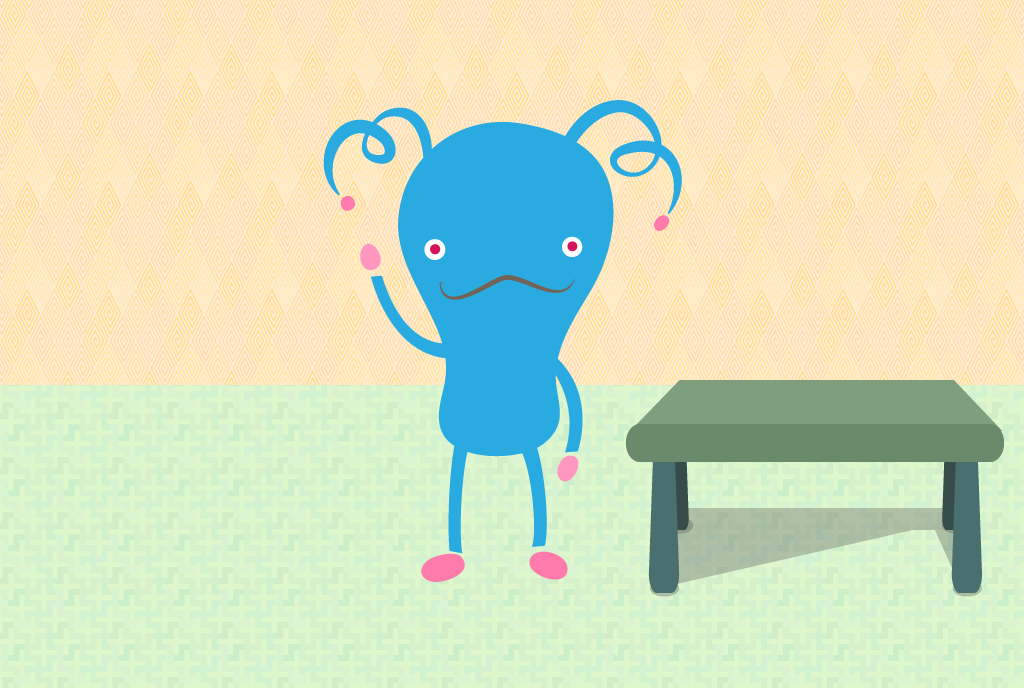
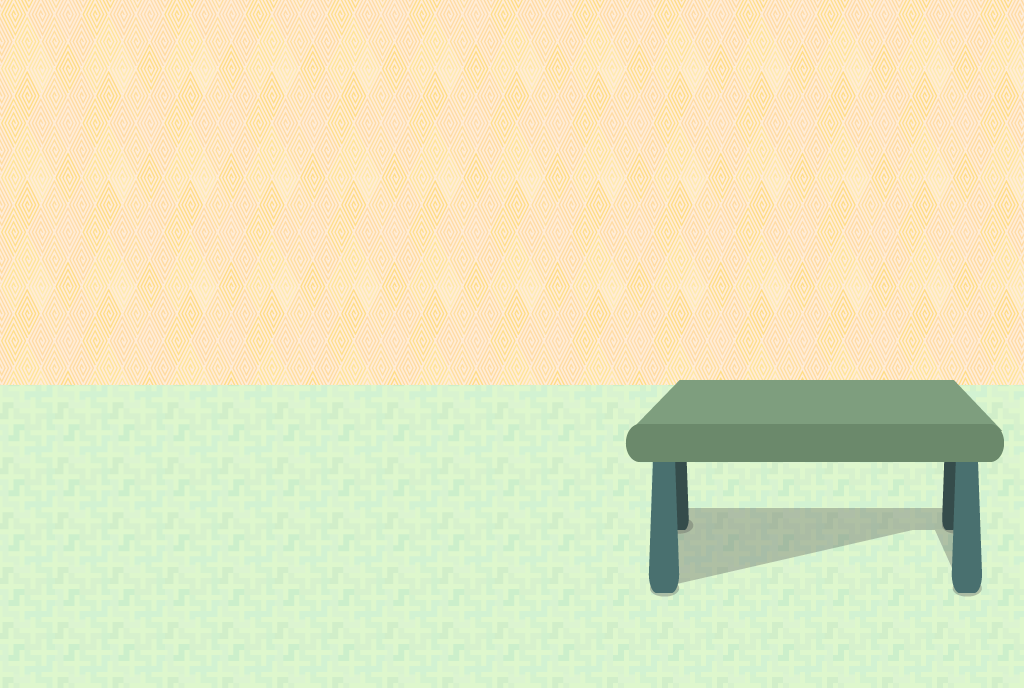
credit screen, playroom wave

Changed region(s): [[0.3125, 0.1221, 0.6875, 0.8547]]

diff --git a/game/states/playroom.js b/game/states/playroom.js
@@ -7,8 +7,13 @@
       this.eatingSceneStartButton = this.game.add.button(676, 245, 'playr_button_eat', this.eatingSceneStartClick, this);
       this.beachSceneStartButton = this.game.add.button(210, 460, 'playr_button_duck', this.beachSceneStartClick, this);
       this.spaceSceneStartButton = this.game.add.button(750, 50, 'playr_button_space', this.spaceSceneStartClick, this);
-      //this.ball= this.game.add.button(835, 500, 'playr_button_ball', this.ballAnimationClick, this);
       this.plant = this.game.add.button(45, 160, 'playr_button_plant', this.plantAnimationClick, this);
+      this.creditStartButton = this.game.add.button(50, 570, 'playr_button_credits', this.creditStartClick, this);
+
+      this.alienWave = this.game.add.sprite(323,100, 'playr_sprite_wave');
+      this.alienWave.animations.add('wave');
+      this.alienWave.play('wave', 8, true);
+
     },
     eatingSceneStartClick: function() {
       this.game.state.start('eating');
@@ -20,13 +25,14 @@
       this.game.state.start('spaceStation');
     },
     plantAnimationClick: function() {
-      //this.game.state.start('spaceStation');
     },
     ballAnimationClick: function() {
-      //this.game.state.start('spaceScene');
     },
     startPlayroom: function() {
       this.game.state.start('playroom');
+    },
+    creditStartClick: function() {
+      this.game.state.start('credit');
     }
   };
 module.exports = Playroom;

diff --git a/game/states/preload.js b/game/states/preload.js
@@ -37,6 +37,9 @@ Preload.prototype = {
     this.load.image('playr_button_eat', 'assets/img/Playroom/playr_button_eat.png');
     this.load.image('playr_button_plant', 'assets/img/Playroom/playr_button_plant.png');
     this.load.image('playr_button_space', 'assets/img/Playroom/playr_button_space.png');    
+    this.load.image('playr_button_credits', 'assets/img/Playroom/playr_button_credits.png');    
+    this.load.spritesheet('playr_sprite_wave', 'assets/img/Playroom/playr_sprite_wave.png', 360, 480, 14);
+    this.load.spritesheet('playr_sprite_blink', 'assets/img/Playroom/playr_sprite_blink.png', 360, 480, 2);
 
     // Eating game assets
     this.load.image('eating_game_win', 'assets/img/EatingGame/kitchen_winscreen.png');
@@ -171,6 +174,10 @@ Preload.prototype = {
 
     this.load.audio('hihna_kiinni', 'assets/sounds/hihna_kiinni.wav');
     this.load.audio('hihna_kiinni_noniin', 'assets/sounds/hinha_kiinni_noniin.wav');
+
+    // Credit assets
+    this.load.image('creditscr_bg', 'assets/img/Credit/creditscr_bg.png');
+    this.load.image('creditscr_exit', 'assets/img/Credit/creditscr_exit.png');
 
 
   },

diff --git a/game/states/credit.js b/game/states/credit.js
@@ -1,0 +1,21 @@
+'use strict';
+  function Credit() {}
+  Credit.prototype = {
+    preload: function() {},
+    create: function() {
+        this.credit_background = this.game.add.sprite(0, 0, 'creditscr_bg');
+        this.backButton = this.add.button(910, 30, 'creditscr_exit' , this.startPlayroom, this);
+    },
+    startPlayroom: function(){
+      this.game.state.start('playroom');
+    },
+    update: function() {
+    },
+    paused: function() {
+    },
+    render: function() {
+    },
+    shutdown: function() {
+    }
+  };
+module.exports = Credit;

diff --git a/game/main.js b/game/main.js
@@ -7,6 +7,7 @@ window.onload = function () {
   // Game States
   game.state.add('beachScene', require('./states/beachScene'));
   game.state.add('boot', require('./states/boot'));
+  game.state.add('credit', require('./states/credit'));
   game.state.add('eating', require('./states/eating'));
   game.state.add('eatingGameWin', require('./states/eatingGameWin'));
   game.state.add('eatingScene', require('./states/eatingScene'));
